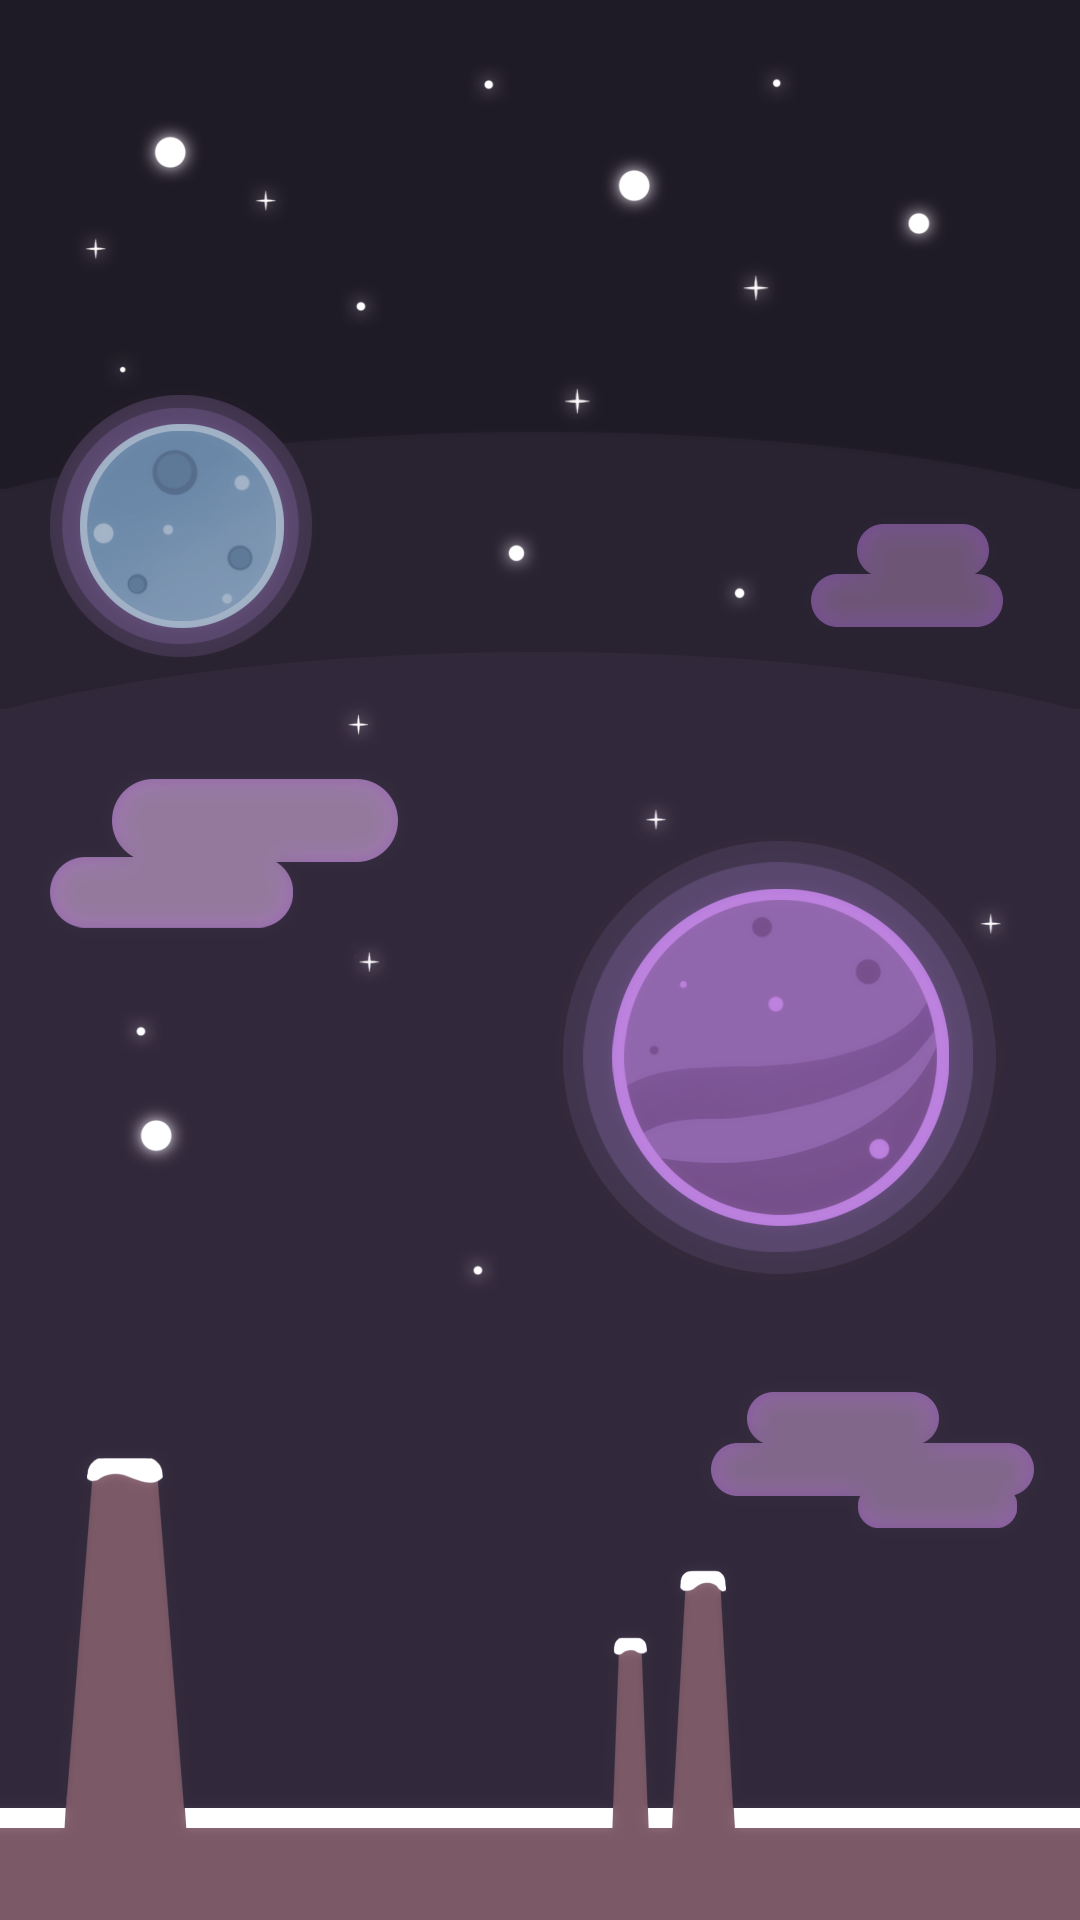
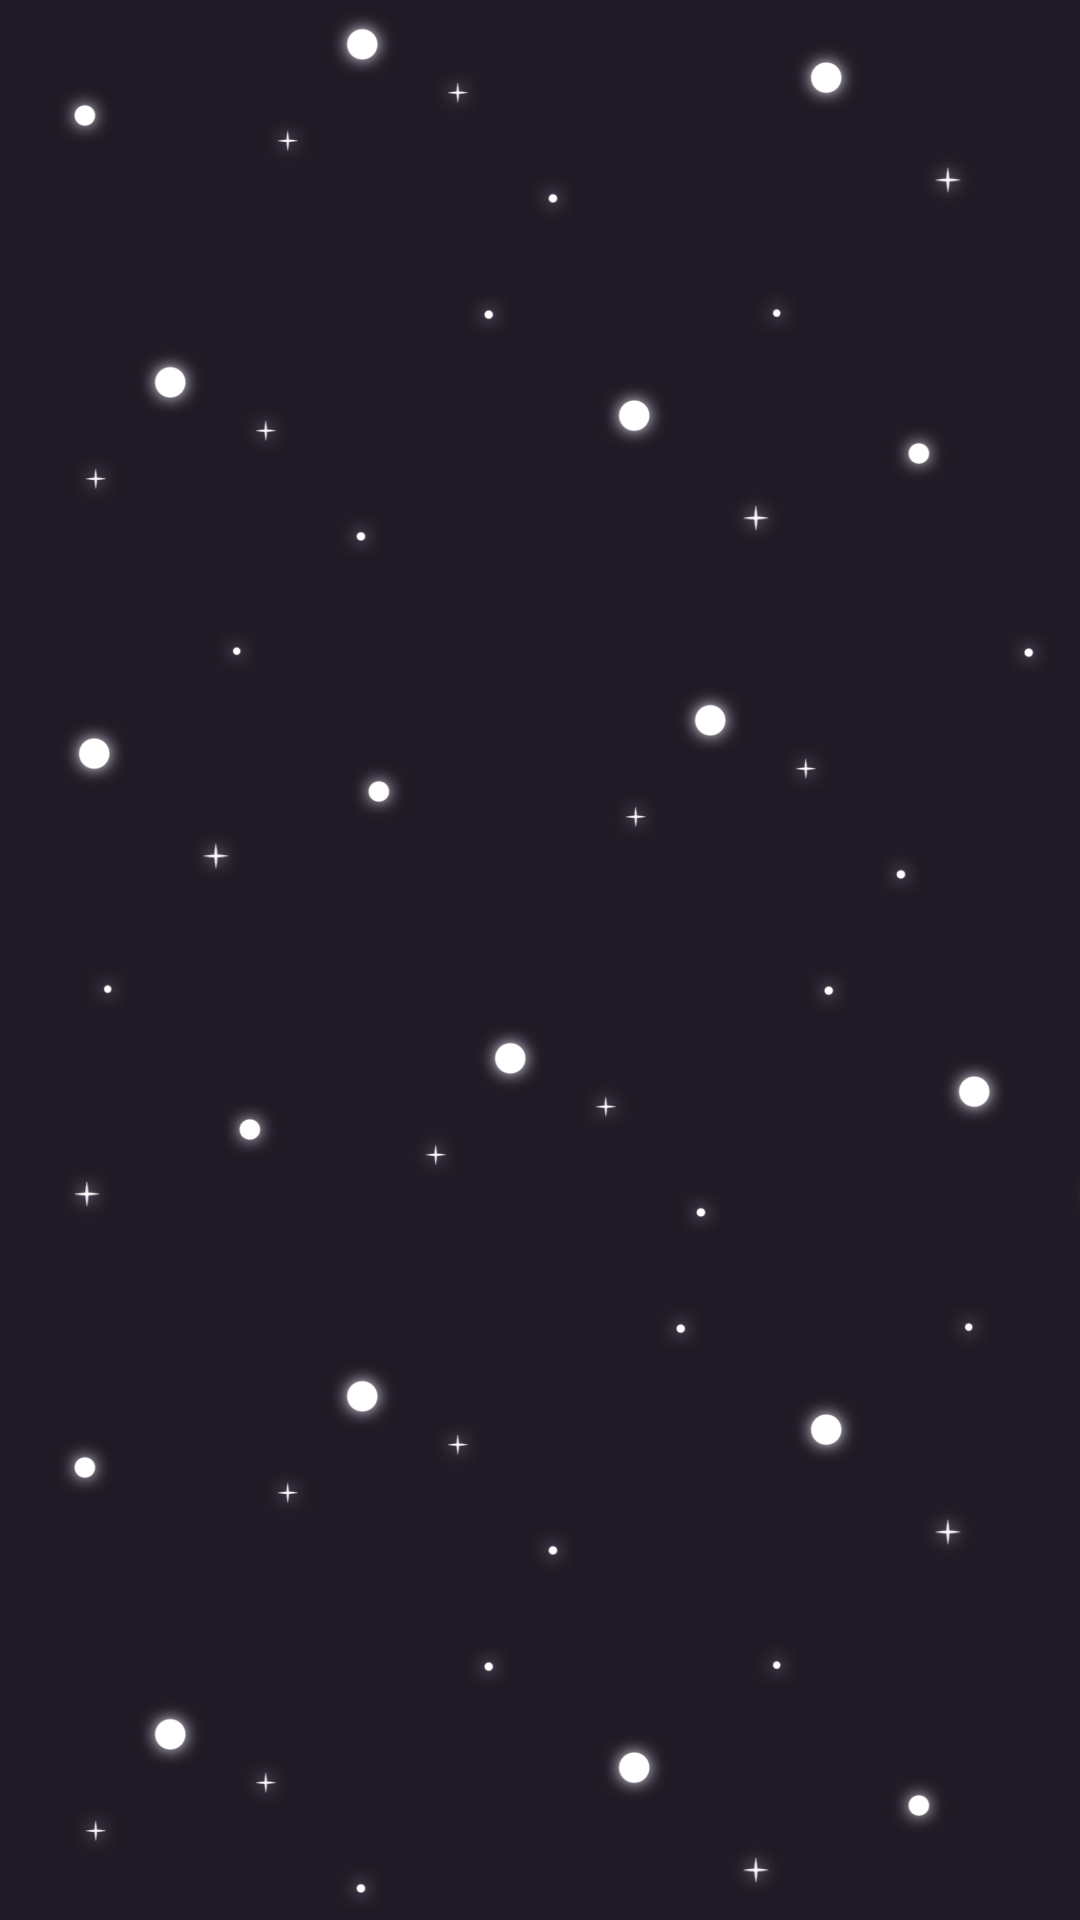
[배환웅] 게임 배경 스크롤 이미지 변경

diff --git a/PointGame/Assets/Script/Game/GamePlayManager.cs b/PointGame/Assets/Script/Game/GamePlayManager.cs
@@ -415,6 +415,15 @@ public void CheckGameOver()
         if (posIndex < 0)
             posIndex = BackgrounList.Count - 1;
 
+        if(index == 0)
+        {
+            if(zeroPos)
+                BackgrounList[index].GetComponent<SpriteRenderer>().sprite = (Sprite)Resources.Load("background", typeof(Sprite));
+            else
+                BackgrounList[index].GetComponent<SpriteRenderer>().sprite = (Sprite)Resources.Load("backgroun_1", typeof(Sprite));
+        }
+        
+
         var nextPos = BackgrounList[posIndex].transform.localPosition;
         if (zeroPos == false)
             BackgrounList[index].gameObject.transform.localPosition = new Vector3(0, nextPos.y + 19.21f, 10f);
